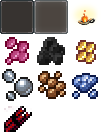
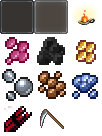
fixed z index order

Changed region(s): [[0.3824, 0.7941, 0.6471, 0.9412]]

diff --git a/src/com/macbury/unamed/entity/DigEffectEntity.java b/src/com/macbury/unamed/entity/DigEffectEntity.java
@@ -1,7 +1,5 @@
 package com.macbury.unamed.entity;
 
-import java.sql.Time;
-
 import org.newdawn.slick.GameContainer;
 import org.newdawn.slick.SlickException;
 import org.newdawn.slick.state.StateBasedGame;
@@ -10,15 +8,23 @@ import com.macbury.unamed.AnimationManager;
 import com.macbury.unamed.Timer;
 import com.macbury.unamed.TimerInterface;
 import com.macbury.unamed.component.AnimatedSprite;
+import com.macbury.unamed.inventory.InventoryItem;
+import com.macbury.unamed.inventory.PickItem;
 
 public class DigEffectEntity extends Entity implements TimerInterface {
   public final static int ENTITY_ZINDEX = Character.ENTITY_ZINDEX;
   private Timer timer;
-  public DigEffectEntity() throws SlickException {
+  
+  public DigEffectEntity(InventoryItem item) throws SlickException {
     super();
     this.z = ENTITY_ZINDEX;
     this.timer = new Timer((short)Player.MAX_TAKING_TIME, this);
-    addComponent(new AnimatedSprite(AnimationManager.shared().punchAnimation));
+    
+    if (PickItem.class.isInstance(item)) {
+      addComponent(new AnimatedSprite(AnimationManager.shared().swordAnimation));
+    } else {
+      addComponent(new AnimatedSprite(AnimationManager.shared().punchAnimation));
+    }
   }
 
   @Override

diff --git a/src/com/macbury/unamed/serializers/InventorySerializer.java b/src/com/macbury/unamed/serializers/InventorySerializer.java
@@ -25,6 +25,7 @@ public class InventorySerializer extends Serializer<InventoryManager> {
     }
     
     int itemCount = input.readInt();
+    int currentHotBarIndex = input.readInt();
     
     while(itemCount > 0) {
       Class<? extends InventoryItem> itemKlass = kryo.readClass(input).getType();
@@ -46,6 +47,8 @@ public class InventorySerializer extends Serializer<InventoryManager> {
       itemCount--;
     }
     
+    manager.setInventoryIndex(currentHotBarIndex);
+    
     return manager;
   }
 
@@ -53,7 +56,7 @@ public class InventorySerializer extends Serializer<InventoryManager> {
   public void write(Kryo kryo, Output out, InventoryManager inventory) {
     Log.info("Saving inventory");
     out.writeInt(inventory.size());
-    
+    out.writeInt(inventory.getCurrentHotBarIndex());
     for (InventoryItem inventoryItem : inventory) {
       kryo.writeClass(out, inventoryItem.getClass());
       out.writeInt(inventoryItem.getQuantity());

diff --git a/src/com/macbury/unamed/inventory/InventoryManager.java b/src/com/macbury/unamed/inventory/InventoryManager.java
@@ -87,7 +87,9 @@ public class InventoryManager extends ArrayList<InventoryItem> {
   }
   
   public Image getImageForInventoryItem(InventoryItem item) throws SlickException {
-    if (DynamiteItem.class.isInstance(item)) {
+    if (CopperPickItem.class.isInstance(item)) {
+      return getOrLoadInventoryItemImage(CopperPickItem.class, 1, 3);
+    } else if (DynamiteItem.class.isInstance(item)) {
       return getOrLoadInventoryItemImage(DynamiteItem.class, 0, 3);
     } else if (CopperItem.class.isInstance(item)) {
       return getOrLoadInventoryItemImage(CopperItem.class, 1, 2);

diff --git a/src/com/macbury/unamed/entity/Player.java b/src/com/macbury/unamed/entity/Player.java
@@ -215,7 +215,7 @@ public class Player extends Character {
         InventoryItem item = usableEntity.harvest(currentHarvestPower());
         if (item == null) {
           SoundManager.shared().playDigForBlock(entityInFront.getBlock());
-          DigEffectEntity punchEntity = new DigEffectEntity();
+          DigEffectEntity punchEntity = new DigEffectEntity(InventoryManager.shared().getCurrentHotBarItem());
           this.getLevel().addEntity(punchEntity);
           punchEntity.setTilePosition(entityInFront.getTileX(), entityInFront.getTileY());
         } else {

diff --git a/src/com/macbury/unamed/entity/Entity.java b/src/com/macbury/unamed/entity/Entity.java
@@ -251,10 +251,14 @@ public class Entity implements Comparable<Entity> {
 
   @Override
   public int compareTo(Entity otherEntity) {
-    if (otherEntity.z > this.z) {
+    if (otherEntity.z == this.z) {
+      if (otherEntity.getY() > this.getY()){
+        return 1;
+      } else {
+        return -1;
+      }
+    } else if (otherEntity.z > this.z) {
       return -1;
-    } else if (otherEntity.z == this.z) {
-      return 0;
     } else {
       return 1;
     }

diff --git a/src/com/macbury/unamed/inventory/CopperPickItem.java b/src/com/macbury/unamed/inventory/CopperPickItem.java
@@ -1,0 +1,23 @@
+package com.macbury.unamed.inventory;
+
+import org.newdawn.slick.SlickException;
+import org.newdawn.slick.geom.Vector2f;
+
+public class CopperPickItem extends PickItem {
+
+  @Override
+  public String getName() {
+    return "Copper pick";
+  }
+
+  @Override
+  public boolean place(Vector2f tilePos) throws SlickException {
+    return false;
+  }
+
+  @Override
+  public int harvestPower() {
+    return 2;
+  }
+
+}

diff --git a/src/com/macbury/unamed/inventory/PickItem.java b/src/com/macbury/unamed/inventory/PickItem.java
@@ -1,0 +1,10 @@
+package com.macbury.unamed.inventory;
+
+public abstract class PickItem extends InventoryItem {
+
+  @Override
+  public String getKey() {
+    return this.getClass().getSimpleName();
+  }
+  
+}
